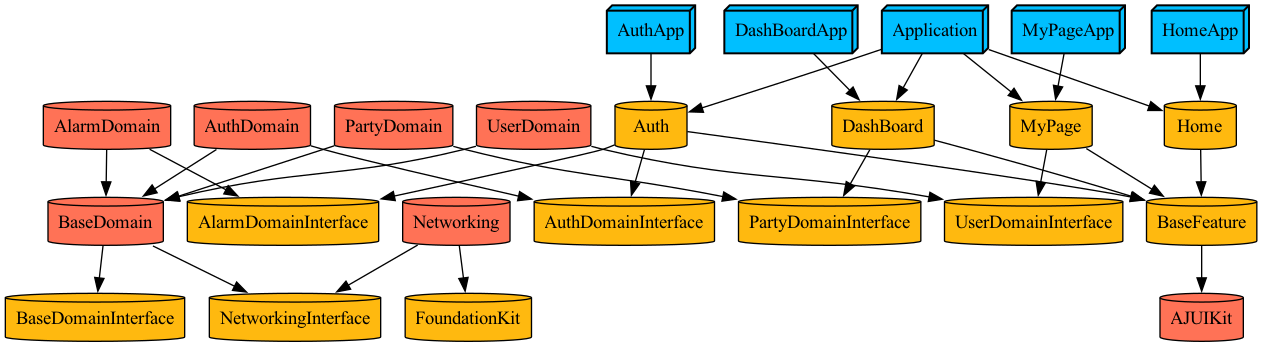
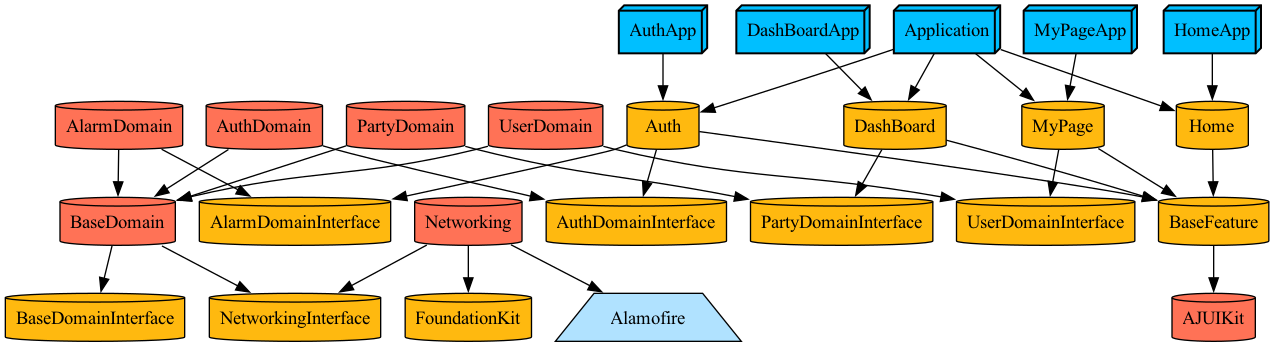
config : Swift Lint 추가

diff --git a/aljo/Tuist/ProjectDescriptionHelpers/Project+Templates.swift b/aljo/Tuist/ProjectDescriptionHelpers/Project+Templates.swift
@@ -1,8 +1,17 @@
 /// Project 생성과 관련된 메서드가 존재합니다.
 ///
+
+import Foundation
 import ProjectDescription
 
 extension Project {
+  static let lintScript: String = """
+    ROOT_DIR=\(ProcessInfo.processInfo.environment["TUIST_ROOT_DIR"] ?? "")
+
+    ${ROOT_DIR}/swiftlint --config ${ROOT_DIR}/.swiftlint.yml
+
+    """
+  
     public static func mainApp() -> Project {
         let targets: [Target] = [
             Target(
@@ -12,6 +21,9 @@ extension Project {
                 bundleId: "com.ASAP.app",
                 deploymentTarget: .iOS(targetVersion: "14.0", devices: .iphone),
                 sources: ["Sources/**"],
+                scripts: [
+                  .pre(script: lintScript, name: "Check Swift Lint", basedOnDependencyAnalysis: false)
+                ],
                 dependencies: [
                   .project(target: "Auth", path: "../Features/Auth"),
                   .project(target: "Home", path: "../Features/Home"),

diff --git a/aljo/Projects/Core/Networking/Project.swift b/aljo/Projects/Core/Networking/Project.swift
@@ -14,7 +14,8 @@ let targets: [Target] = [
     sources: ["Sources/**"],
     dependencies: [
       .project(target: "NetworkingInterface", path: ""),
-      .project(target: "FoundationKit", path: "../../Shared/FoundationKit")
+      .project(target: "FoundationKit", path: "../../Shared/FoundationKit"),
+      .external(name: "Alamofire")
     ]
   ),
   Target(

diff --git a/aljo/Projects/Core/Networking/Sources/Networking.swift b/aljo/Projects/Core/Networking/Sources/Networking.swift
@@ -1,2 +1,3 @@
 import NetworkingInterface
 import FoundationKit
+import Alamofire
